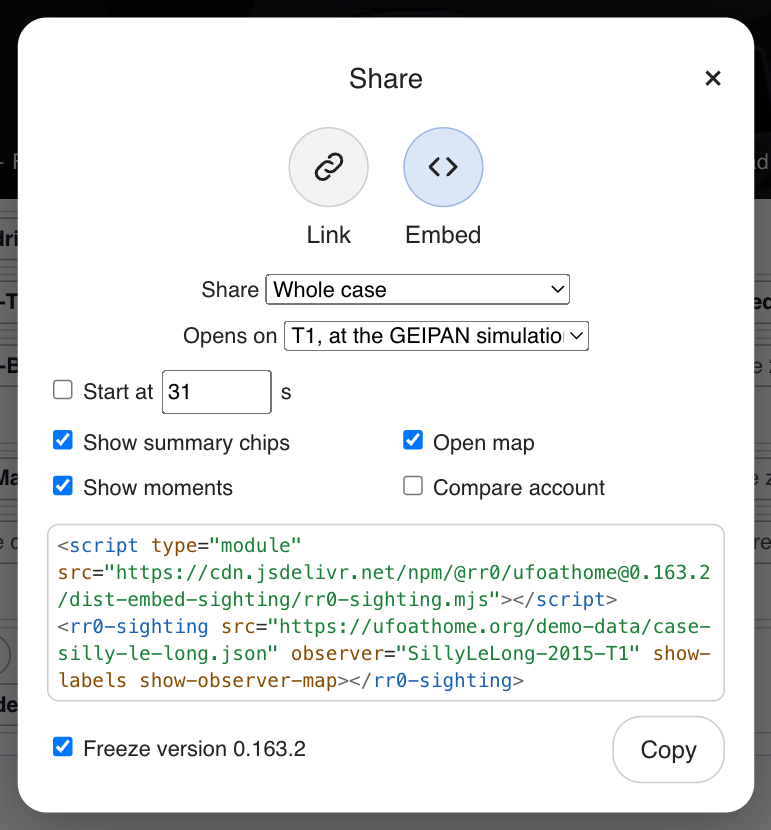
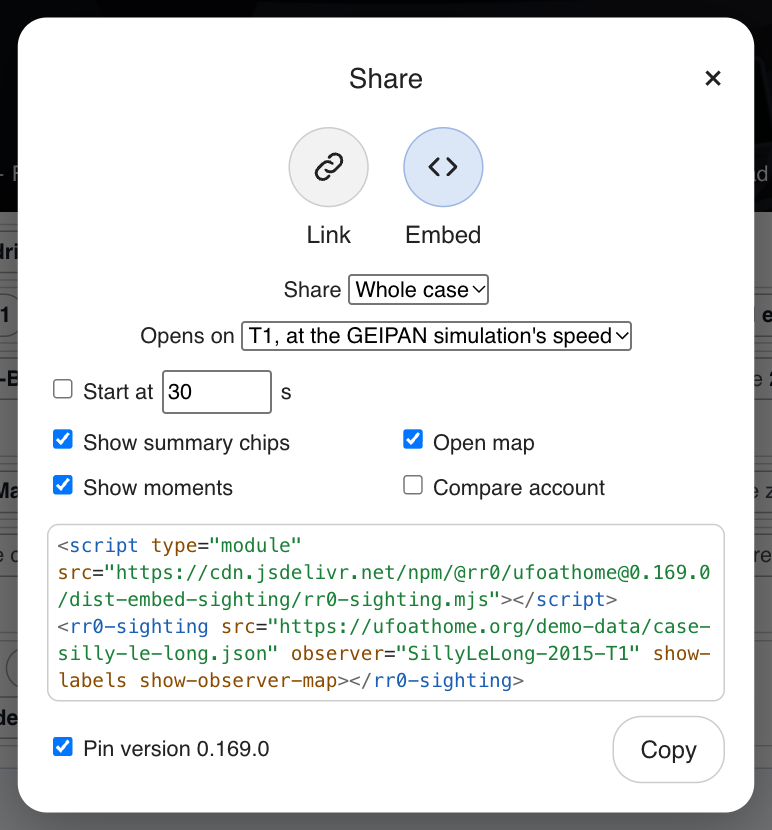
UFO@home article 3 re-synchronised from Medium (snapshots, pin); share shot retaken with Pin version

diff --git a/blog/ufoathome/03-built-to-outlast-its-sources.md b/blog/ufoathome/03-built-to-outlast-its-sources.md
@@ -46,7 +46,7 @@ There are six of them, three to show and three to edit:
 
 A page only ever writes one tag: the sighting holds its scene, the case editor its sightings and interviews. The fields they are made of, such as a date input that knows about imprecise dates, are elements too, but a page has no need of them. The heavy parts that a page may never use, such as the editor of 3D bodies or the code that reads photographs, are only downloaded when they are first needed.
 
-And nothing has to depend on ufoathome.org. The components are [published on npm](https://www.npmjs.com/package/@rr0/ufoathome) under the MIT license; anyone can copy the built files onto their own server and point the script there. A finished recording does not even need the third-party services to play: without them, the scene falls back to a plain horizon.
+And nothing has to depend on [ufoathome.org](https://ufoathome.org/). The components are [published on npm](https://www.npmjs.com/package/@rr0/ufoathome) under the [MIT license](https://opensource.org/license/mit); anyone can copy the built files onto their own server and point the script there. A finished recording does not even need the third-party services to play: without them, the scene falls back to a plain horizon.
 
 ## Providers: every source is a choice
 
@@ -81,27 +81,27 @@ Some data cannot be fetched live from a browser, or could be taken down by whoev
 
 The models are a good example of why. The catalogues that can be read from a browser hold test objects and props; the free kits that do contain a car, an airframe or a lamp post mostly live on third-party mirrors whose permanence and licence vary. A recording names a model by an identifier, and an identifier a catalogue does not know falls back to a plain shape rather than an error.
 
-## Frozen data: a recording that plays the same in twenty years
+## Snapshots: a recording that plays the same in twenty years
 
-Providers answer today. But the imagery of a place changes, a service closes, a reanalysis is revised. So a recording can **freeze** what each source answered, in annexes kept beside its file: the relief, the photograph of the ground, the roads, water and railways, the winds aloft, the map, the weather, the place, the night sky’s brightness.
+Providers answer today. But the imagery of a place changes, a service closes, a reanalysis is revised. So a recording can keep a **snapshot** of what each source answered, in annexes kept beside its file: the relief, the photograph of the ground, the roads, water and railways, the winds aloft, the map, the weather, the place, the night sky’s brightness.
 
 ![The Files group of the editor for Silly-le-Long, on the annex "Photograph of the ground": its address, a Save button, and "taken on 2026-10-20 · Imagery © Esri, Maxar, Earthstar Geographics, and the GIS User Community", with a Refresh button](img3/files.png)
 *One of the annexes of the Silly-le-Long recording: the aerial imagery, taken on a given day, with its credit, and a button to take it again.*
 
-A frozen recording plays without asking any third party for anything, and it plays the same, years later, as on the day it was published.
+A recording with its snapshots plays without asking any third party for anything, and it plays the same, years later, as on the day it was published.
 
 ## Versions, of the format and of the player
 
 The file format has a **version** of its own, distinct from the tool’s: it only changes the day a field changes its meaning or its shape. Each version has its published schema, a file of an older version is converted as it is read, and a file of a version newer than the player is refused with a message, rather than played as something it does not say.
 
-The player follows each release by default, so a page embedding a reconstruction gets every fix. An author who wants to keep exactly the rendering they checked can **freeze the version**: the script then comes from the package as published on npm, served by [jsDelivr](https://www.jsdelivr.com/), which keeps every version.
+The player follows each release by default, so a page embedding a reconstruction gets every fix. An author who wants to keep exactly the rendering they checked can **pin the version**: the script then comes from the package as published on npm, served by [jsDelivr](https://www.jsdelivr.com/), which keeps every version.
 
-![The share dialog of the player: Link or Embed, what to share and where it opens, options (start time, summary chips, map, moments, comparison), the two lines of code pointing at a pinned version on jsDelivr, and a checked "Freeze version" box](img3/share.png)
-*The share dialog, with “Freeze version” ticked: the embed code now points at one published version of the player.*
+![The share dialog of the player: Link or Embed, what to share and where it opens, options (start time, summary chips, map, moments, comparison), the two lines of code pointing at a pinned version on jsDelivr, and a checked "Pin version" box](img3/share.png)
+*The share dialog, with “Pin version” ticked: the embed code now points at one published version of the player.*
 
 ## Offline
 
-Finally, ufoathome.org is an **installable web application** (a PWA): from the browser’s install button on a computer, or “Add to Home Screen” on a phone, it gets its own window and icon. Online, nothing changes: the network is always asked first, so the current version is what is read. Offline, the player, and every page, recording, model and map tile already opened, stay on the device: enough to replay an account in the field, on the very spot, with no signal. What needs a network, such as the weather of a new recording, simply waits for one.
+Finally, ufoathome.org is an **installable web application** (a [PWA](https://developer.mozilla.org/en-US/docs/Web/Progressive_web_apps)): from the browser’s install button on a computer, or “Add to Home Screen” on a phone, it gets its own window and icon. Online, nothing changes: the network is always asked first, so the current version is what is read. Offline, the player, and every page, recording, model and map tile already opened, stay on the device: enough to replay an account in the field, on the very spot, with no signal. What needs a network, such as the weather of a new recording, simply waits for one.
 
 No account, no server storing anything, no cookie: the only output of the tool is the file its author chooses to save.
 
@@ -112,6 +112,6 @@ UFO@home is built so that a reconstruction outlives both the tool’s own histor
 - **web standards only**: elements any page can hold, with nothing to build and no framework to follow;
 - **providers**: every source is a visible, credited choice, and a new one can be added without touching the rest;
 - **assets**: what may disappear is copied, credited and hosted;
-- **frozen annexes**: a recording can carry what its sources answered, and play the same years later;
+- **snapshots**: a recording can carry what its sources answered, and play the same years later;
 - **versions**: of the format, read forward and refused when too new, and of the player, which can be pinned;
 - **offline**: installable, and usable in the field.
